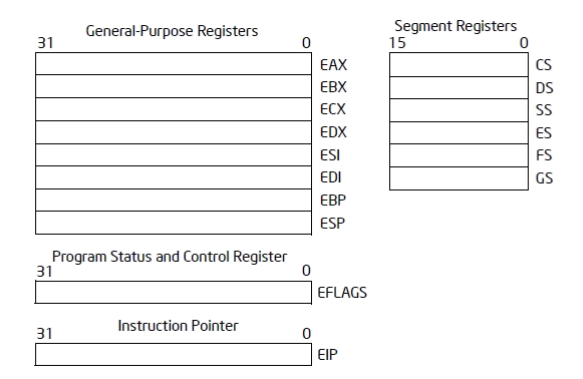
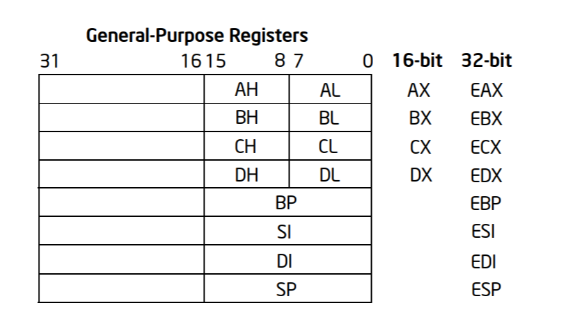
10.12

diff --git a/docs/reversing/register.md b/docs/reversing/register.md
@@ -62,6 +62,47 @@ IA-32(Intel Architecture 32비트) 설명
 - IA-32에서 각각의 범용 레지스터들의 크기는 32비트(4바이트)이다.
 - ![](../../assets/images/reversing/Register/2.png)
 
+{: .no_toc}
+> - 각 레지스터들은 16비트 하위 호환을 위하여 몇 개의 구획으로 나뉜다. (EAX를 기준으로 설명)
+> - EAX : (0 ~ 31) 32비트
+> - AX : (0 ~ 15) EAX의 하위 16비트
+> - AH : (8 ~ 15) AX의 상위 8비트
+> - AL : (0 ~ 7) AX의 하위 8비트
+> - 즉 4바이트(32비트)를 다 사용하고 싶을 때는 **EAX**를 사용하고, 2바이트(16비트)만을 사용할 때는 EAX의 하위 16비트 부부인 **AX**를 사용하면 된다.
+> - 이런식으로 상황에 맞게 8비트, 16비트, 32비트로 알뜰하게 사용
+
+<br>
+
+- 아래 4개의 레지스터들은 주로 산술연산(ADD, SUB, XOR, OR 등) 명령어에서 상수/변수 값의 저장 용도로 많이 사용
+- EAX : Accumulator for operands and results data
+- EBX : Pointer to data in the DS segment
+- ECX : Counter for string and loop operations
+- EDX : I/O pointer
+
+{: .no_toc}
+> - 추가적으로 ECX와 CAX는 특수한 용도로도 많이 사용
+> - ECX는 반복 명령문(LOOP)에서 반복 카운트(loop count)로 사용(루프를 돌 때마다 ECX를 1씩 감소시킴)
+> - EAX는 일반적으로 함수 리턴 값에 사용. 모든 Win32 API 함수들은 리턴 값을 EAX에 저장한 후 리턴
+
+<br>
+
+- 나머지 범용 레지스터들의 이름은 아래와 같고, 주로 메모리 주소를 저장하는 포인터로 사용
+- EBP : Pointer to data on the stack (in the SS sement)
+- ESI : source pointer for string operations
+- EDI : destination pointer for string operations
+- ESP : Stack pointer (in the SS segment)
+
+{: .no_toc}
+> - ESP는 스택 메모리 주소를 가리킴
+> - EBP는 함수가 호출되었을 때 그 순간의 ESP를 저장하고 있다가, 함수가 리턴하기 직전에 다시 ESP에 값을 되돌려줘서 스택이 깨지지 않도록 함(Stack Frame 기법)
+> - ESI와 EDI는 특정 명령어들(LODS, STOS, REP MOVS 등)과 함께 주로 메모리 복사에 사용
+> - LODS: 메모리에서 데이터를 가져와 레지스터로 저장.
+> - STOS: 레지스터에 있는 데이터를 메모리로 저장.
+> - REP MOVS: 소스 메모리에서 목적지 메모리로 다수의 데이터를 반복적으로 복사.
+
+
+## 1.5 범용 레지스터 요약
+
 | 레지스터  | 설명                                                                 |
 |-----------|----------------------------------------------------------------------|
 | **EAX**   | 주로 산술 연산의 결과를 저장하는 **누산기(accumulator)**로 사용 |
@@ -71,14 +112,32 @@ IA-32(Intel Architecture 32비트) 설명
 | **ESI/EDI** | 문자열 연산이나 메모리 주소 계산에 자주 사용                     |
 | **EBP/ESP** | 스택 포인터와 관련된 작업을 처리. 함수 호출 시 스택에 데이터를 저장하고, 스택의 최상단을 추적하는 데 사용. |
 
+---
+
+## 2.1 세그먼트 레지스터
+- IA-32 보호 모드에서 세그먼트란 메모리를 조각내어 각 조각마다 시작 주소, 범위, 접근 권한 등을 부여해서 메모리를 보호하는 기법
+- 세그먼트는 페이징(Paging) 기법과 함께 가상 메모리를 실제 물리 메모리로 변경할 때 사용
+- 세그먼트 레지스터는 총 6개(CS, SS, DS, ES, FS, GS)이며 각각의 크기는 16비트(2바이트)이다.
+- ![](../../assets/images/reversing/Register/2.png)
+
 {: .no_toc}
-> - 각 레지스터들은 16비트 하위 호환을 위하여 몇 개의 구획으로 나뉜다. (EAX를 기준으로 설명)
-> - EAX : (0 ~ 31) 32비트
-> - AX : (0 ~ 15) EAX의 하위 16비트
-> - AH : (8 ~ 15) AX의 상위 8비트
-> - AL : (0 ~ 7) AX의 하위 8비트
-> - 즉 4바이트(32비트)를 다 사용하고 싶을 때는 **EAX**를 사용하고, 2바이트(16비트)만을 사용할 때는 EAX의 하위 16비트 부부인 **AX**를 사용하면 된다.
-> - 이런식으로 상황에 맞게 8비트, 16비트, 32비트로 알뜰하게 사용
+> - 세그먼트 레지스터가 가리키는 세그먼트 디스크립터(Segment Descriptor)와 가상 메모리가 조합되어 선형주소(Linear Address)가 되며, 페이징 기법에 의해서 선형 주소가 최종적으로 물리주소(Physical Address)로 변환
+> - **페이징 기법**은 운영체제에서 가상 메모리와 물리적 메모리를 효율적으로 관리하기 위한 메모리 관리 기법
+
+<br>
+
+- 각 세그먼트 레지스터의 이름은 아래와 같다.
+- CS : Code Segment
+- SS : Stack Segment
+- DS : Data Segment
+- ES : Extra(Data) Segment
+- FS : Data Segment
+- GS : Data Segment
+
+---
+
+## 3.1 프로그램 상태와 컨트롤 레지스터
+- 
 
 ---
 
